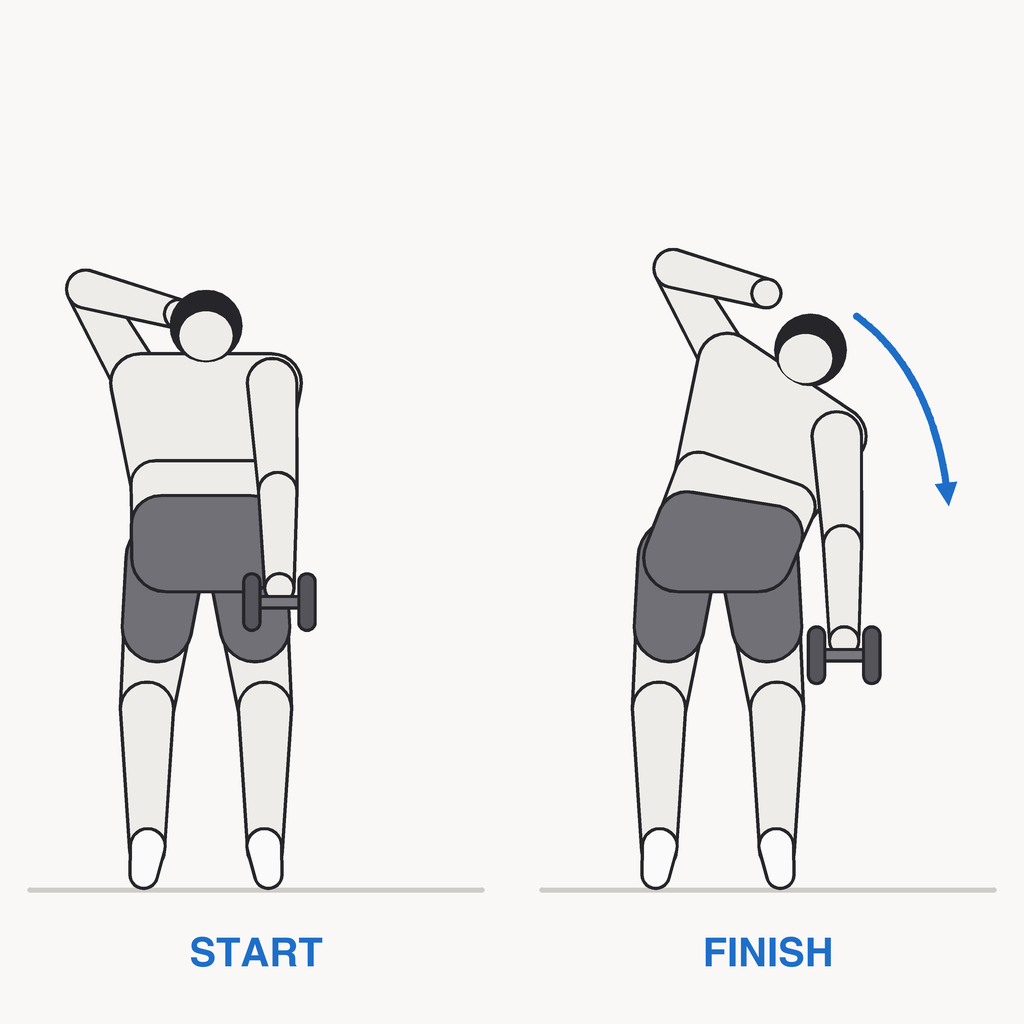
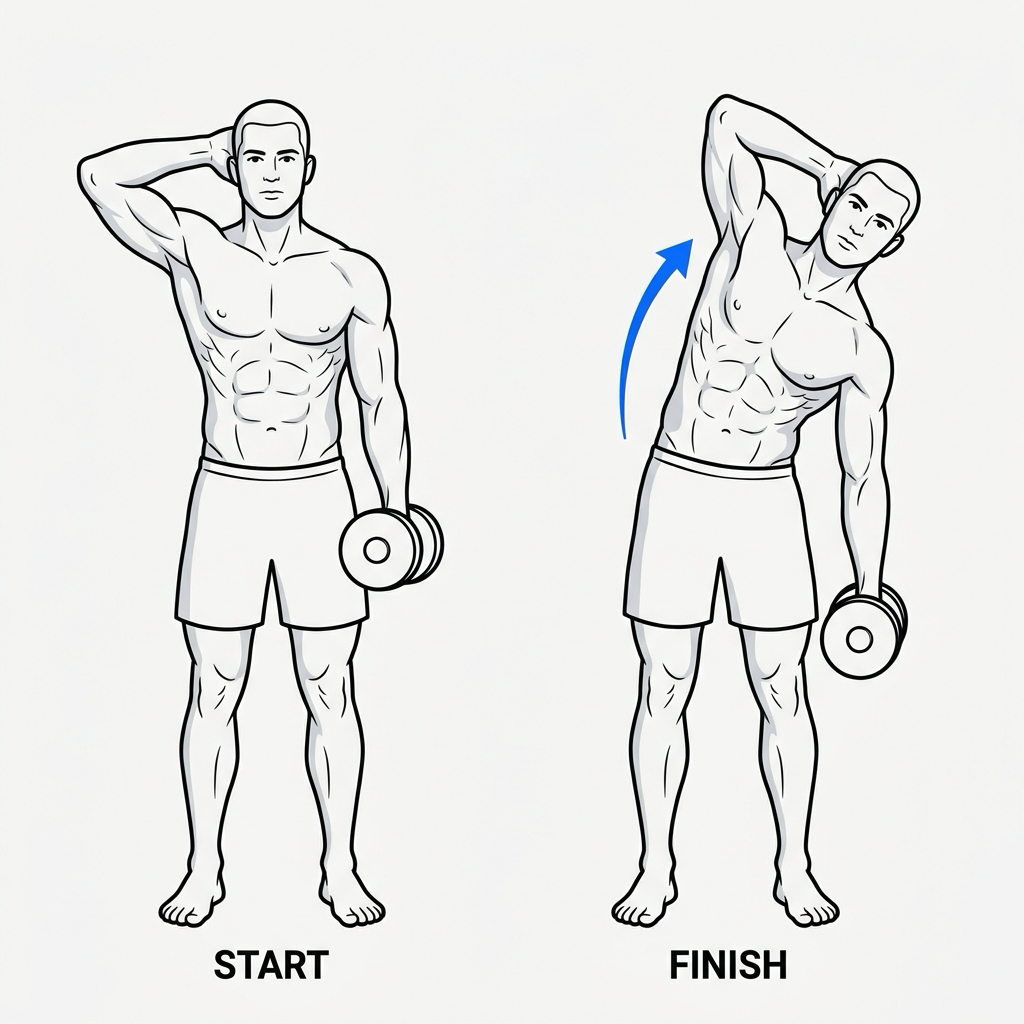
feat(images): publish dumbbell side bend form-guide illustration (rev 20)

Changed region(s): [[0.0312, 0.0938, 0.4688, 0.9688], [0.5312, 0.0938, 0.9688, 0.9688], [0.9062, 0.4062, 0.9375, 0.5]]

diff --git a/FORM_GUIDE_IMAGE_TODO.md b/FORM_GUIDE_IMAGE_TODO.md
@@ -13,7 +13,7 @@ filename** in `remote/images/exercises/`, then in the app repo run
 `exerciseImages.revision` in `remote/manifest.json` (and the app repo's `data/remote/manifest.json`),
 push this repo and purge that image's jsDelivr URL. Re-running the script drops the row.
 
-_Last generated 2026-10-01 — 13 pending, 41 replaced._
+_Last generated 2026-10-02 — 12 pending, 42 replaced._
 
 ## Pending
 
@@ -21,7 +21,6 @@ _Last generated 2026-10-01 — 13 pending, 41 replaced._
 | --- | --- | --- | --- |
 | [ ] | Renegade Row | [`form.back-renegade-row.png`](remote/images/exercises/form.back-renegade-row.png) | 307 KB |
 | [ ] | Superman Hold | [`form.back-superman-hold.png`](remote/images/exercises/form.back-superman-hold.png) | 197 KB |
-| [ ] | Dumbbell Side Bend | [`form.core-dumbbell-side-bend.png`](remote/images/exercises/form.core-dumbbell-side-bend.png) | 99 KB |
 | [ ] | Feet-Elevated Side Plank | [`form.core-feet-elevated-side-plank.png`](remote/images/exercises/form.core-feet-elevated-side-plank.png) | 98 KB |
 | [ ] | Flutter Kick | [`form.core-flutter-kick.png`](remote/images/exercises/form.core-flutter-kick.png) | 95 KB |
 | [ ] | Long-Lever Plank | [`form.core-long-lever-plank.png`](remote/images/exercises/form.core-long-lever-plank.png) | 83 KB |
@@ -46,12 +45,6 @@ _Last generated 2026-10-01 — 13 pending, 41 replaced._
 `form.back-superman-hold.png`
 
 > Instructional form-guide: Superman Hold. One held position, side view of an athlete lying face down on a mat, arms stretched overhead, arms, chest and straight legs lifted a few centimetres off the floor. A small blue timer icon labelled HOLD. Style: clean black line art, light gray shading, off-white background, blue arrows only, square 1:1, no photo-realism.
-
-### Dumbbell Side Bend
-
-`form.core-dumbbell-side-bend.png`
-
-> Instructional form-guide: Dumbbell Side Bend. Two panels, front view of a standing athlete with one dumbbell in the right hand at the side, left hand behind the head. START: torso upright. FINISH: torso bent directly sideways toward the dumbbell, which has slid down toward the knee, hips still. Blue curved arrow along the side of the torso. Style: clean black line art, light gray shading, off-white background, blue arrows only, square 1:1, no photo-realism.
 
 ### Feet-Elevated Side Plank
 
@@ -156,3 +149,4 @@ _Last generated 2026-10-01 — 13 pending, 41 replaced._
 - [x] Wide-Grip Seated Cable Row — `form.back-wide-grip-seated-cable-row.png`
 - [x] Archer Push-Up — `form.chest-archer-push-up.png`
 - [x] Incline Cable Press — `form.chest-incline-cable-press.png`
+- [x] Dumbbell Side Bend — `form.core-dumbbell-side-bend.png`
